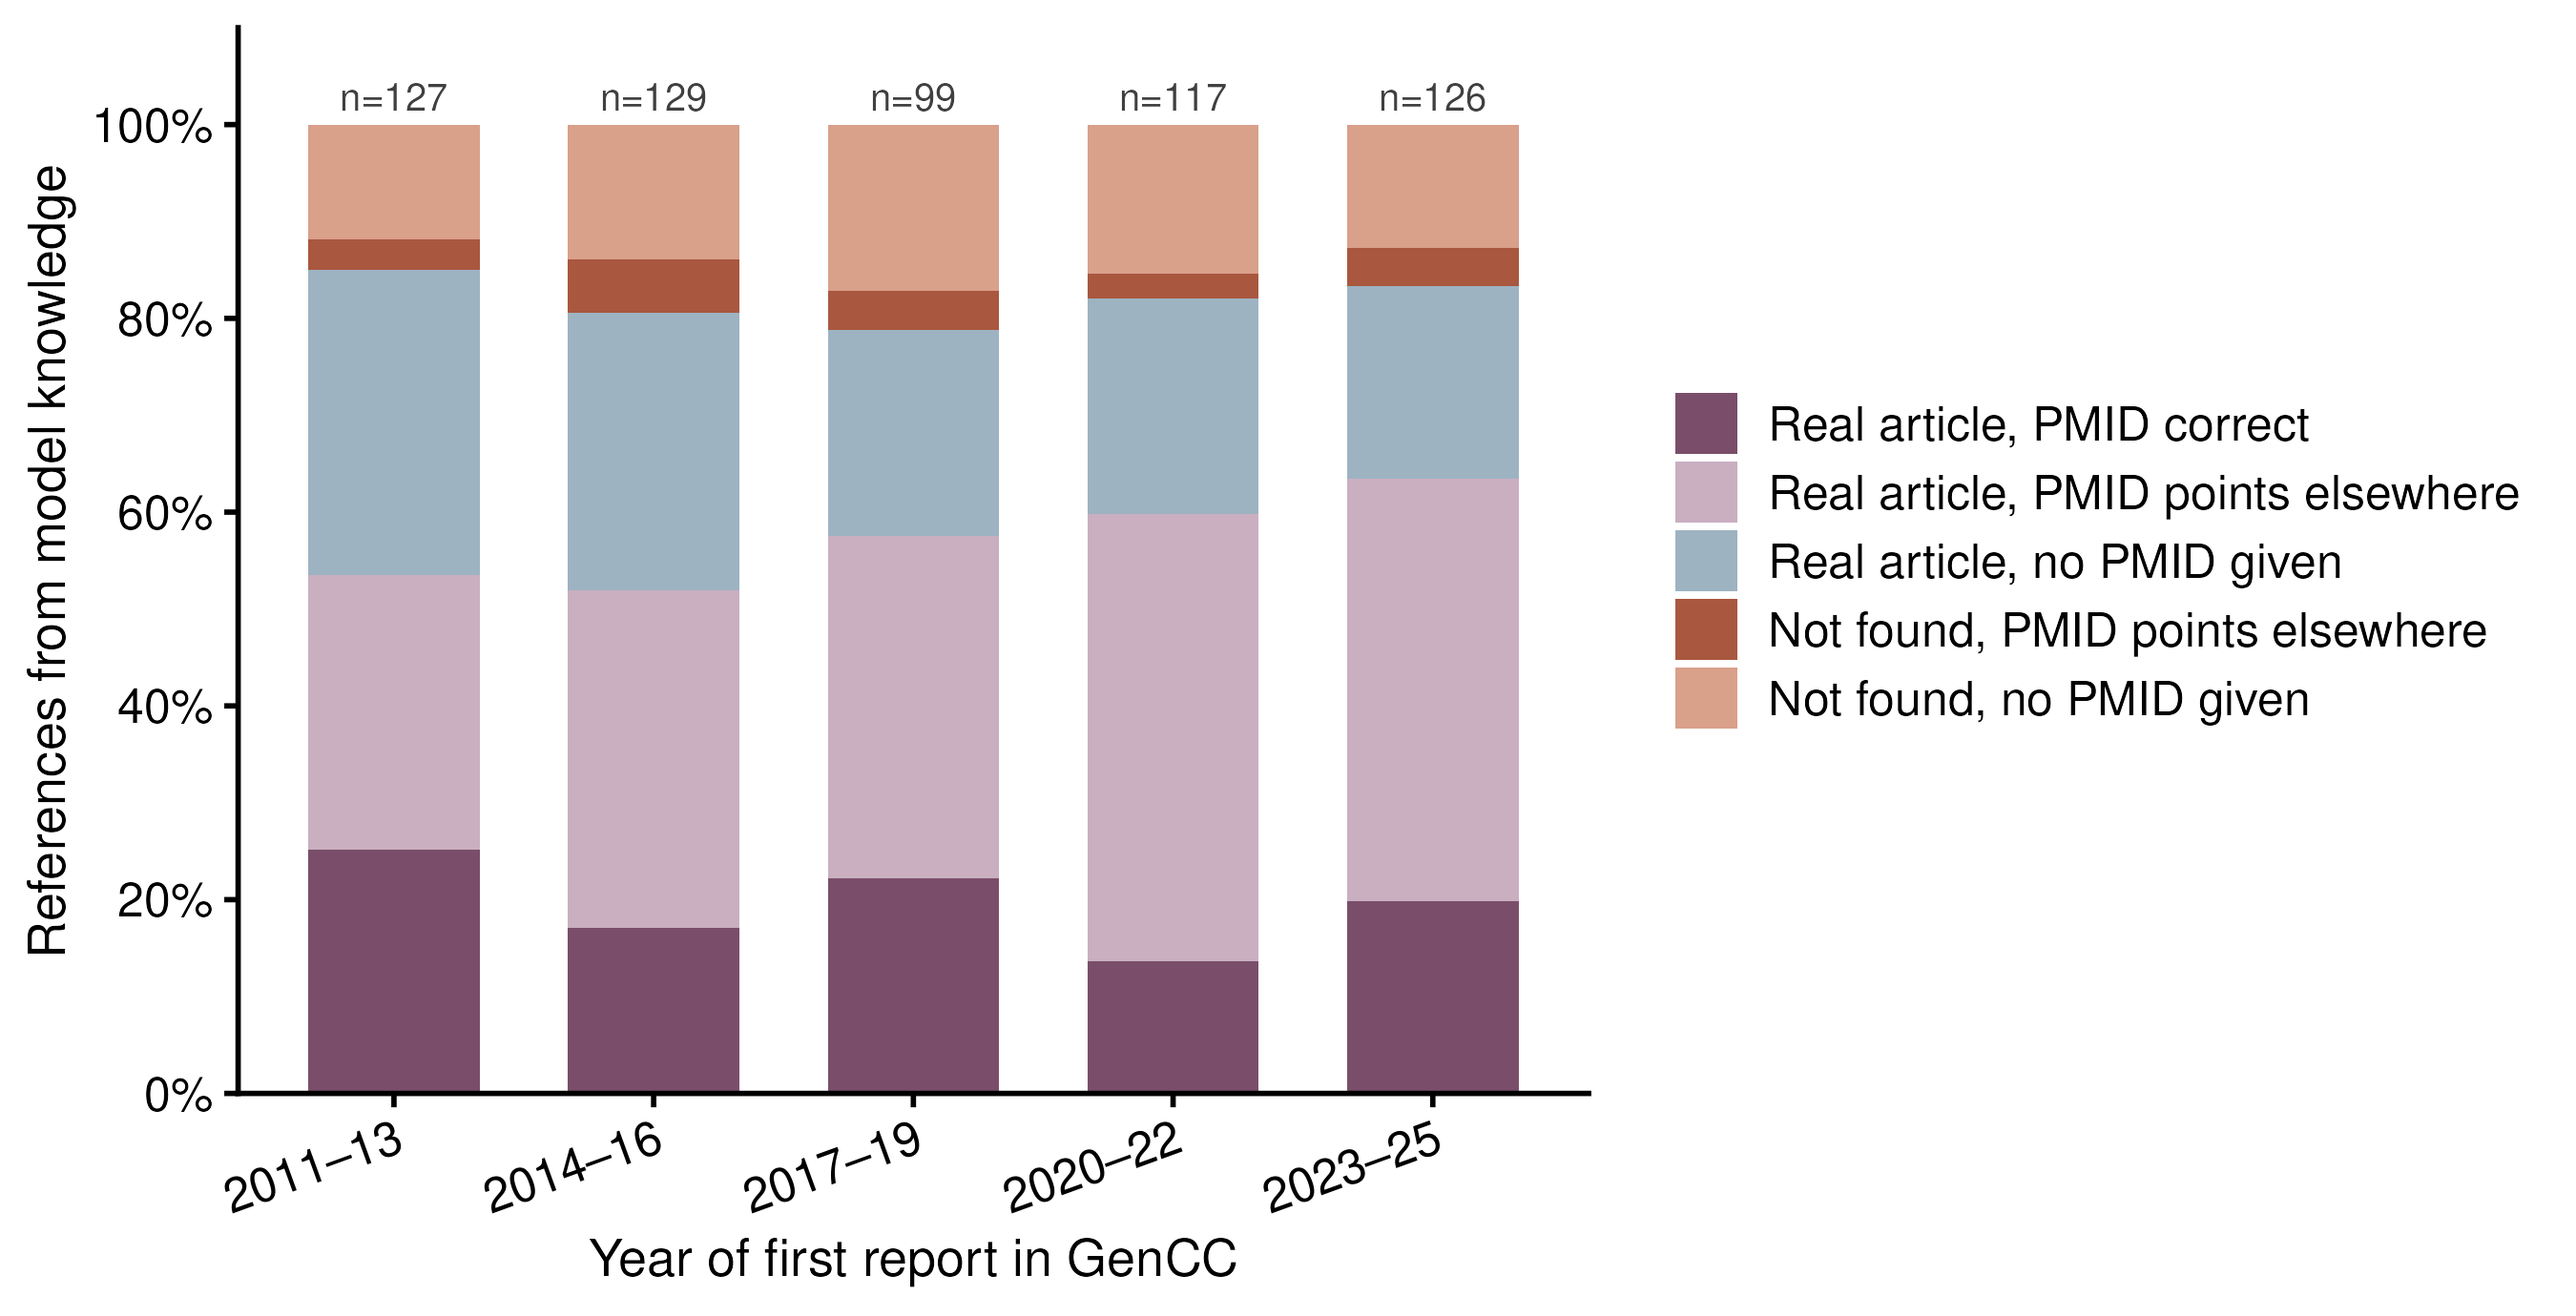
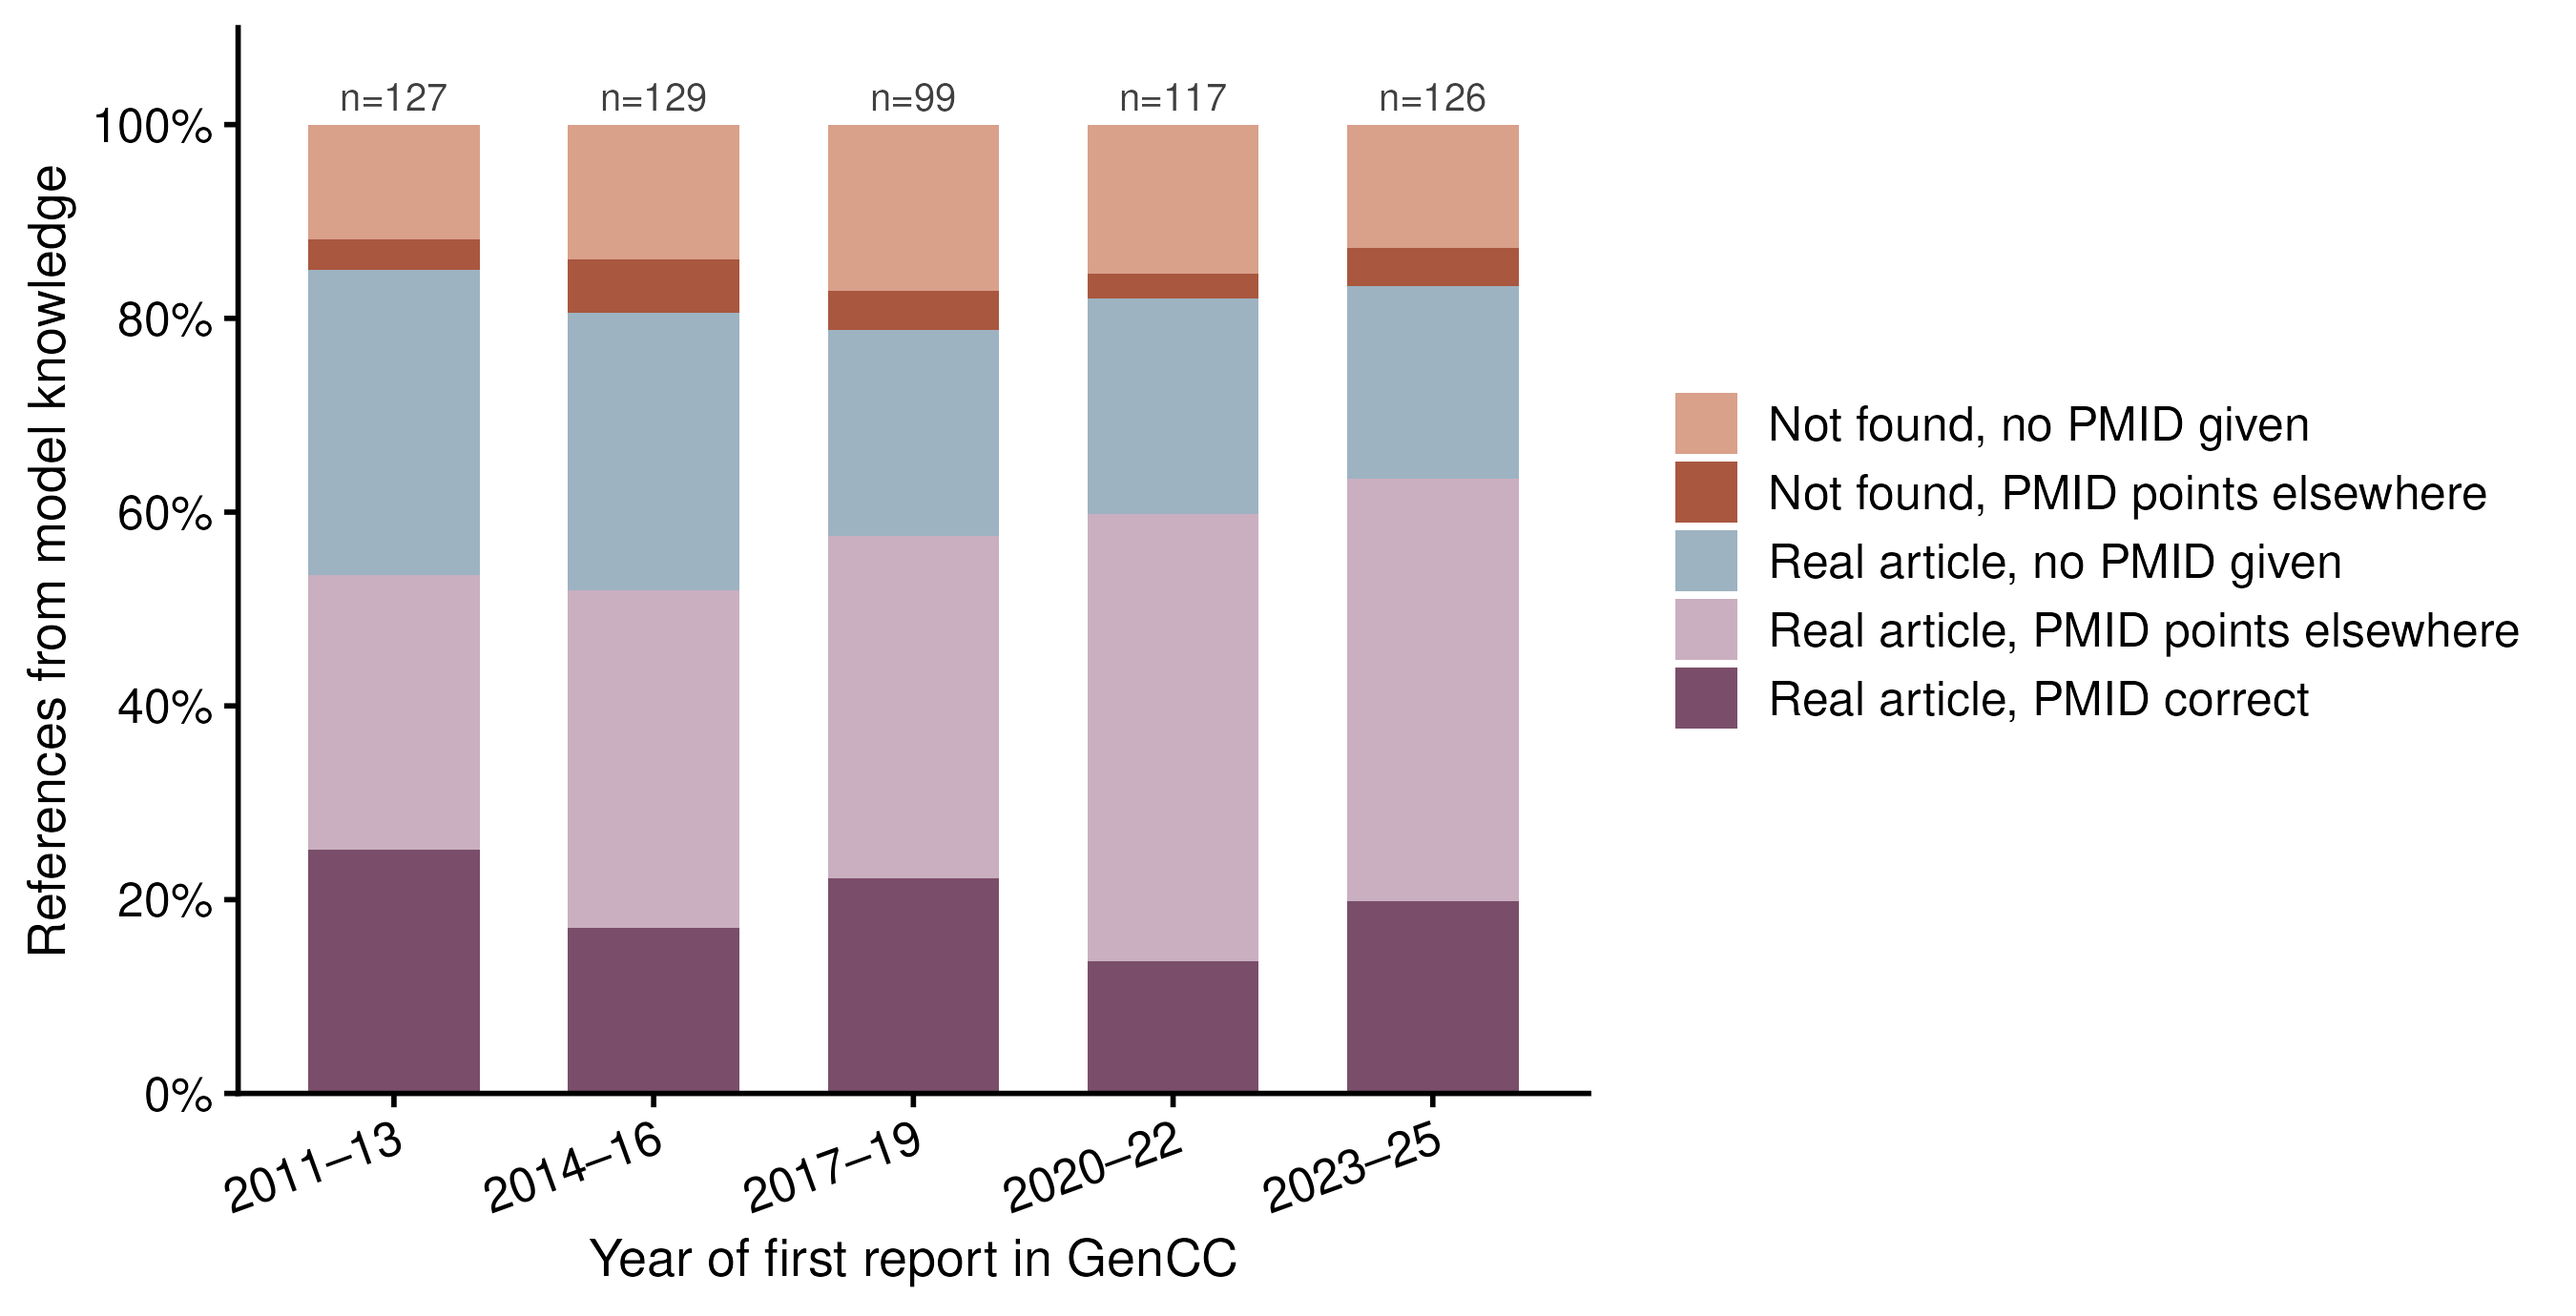
Paper: 122 also writes results/ablation_established_by_group.tsv (the Established tables of Supplementary Note 4, Section 4.1; figure unchanged); Supplementary Figure 3 legend in the order of the stacked bars (280)

Changed region(s): [[0.6533, 0.2804, 0.9644, 0.4051], [0.6533, 0.4362, 0.9956, 0.5609]]

diff --git a/paper/README.md b/paper/README.md
@@ -37,7 +37,7 @@ fonts (`fonts-urw-base35` on Debian and Ubuntu).
 | Supplementary Figure 2 | `156_figure_supp_abstract_fix.R` (reads `results/abstract_fix_check.tsv`) | `figures/figure_supp_abstract_fix.png` |
 | Supplementary Figure 3 (references from the model's knowledge) | `280_figure_supp_citations.R` (+ `_panel_citations.R`; reads `results/knowledge_citations/pair_summary.tsv` and `ref_checks.tsv`) | `figures/figure_supp_citations.png` |
 | Supplementary Figure 4 (manual benchmark of the Open Targets branch) | `320_figure_supp_ot_manual.py` (reads `results/ot_manual_benchmark/`; prints the numbers of Supplementary Material Note 3) | `figures/figure_supp_ot_manual_agreement.png` |
-| Supplementary Figure 5 (prompt ablations) | `122_figure2_current_vs_score.R` | `figures/figure2_current_vs_score.png` |
+| Supplementary Figure 5 (prompt ablations), and the tables of Supplementary Note 4, Section 4.1 (percentage called Established by GenCC class and ASC group) | `122_figure2_current_vs_score.R` | `figures/figure2_current_vs_score.png`, `results/ablation_established_by_group.tsv` |
 | Supplementary Figure 6 (fetal cell types) | `231_fetal_cell_type_heatmap.R` (reads `results/biology/fetal_cell_types_grid.tsv`) | `figures/figure_fetal_cell_types.png` |
 | Supplementary Figure 7 (full-text mode) | `150_bodyonly_data.py`, `170_figure_supp_fulltext.R` (+ `172_pipeline_detailed_schema.R` for a; e reads `results/modes_benchmark_140/`) | `figures/figure_supp_fulltext.png` |
 | Supplementary Figure 8 (web interface) | screenshots of `pesto browser`, not drawn by a script | — |
